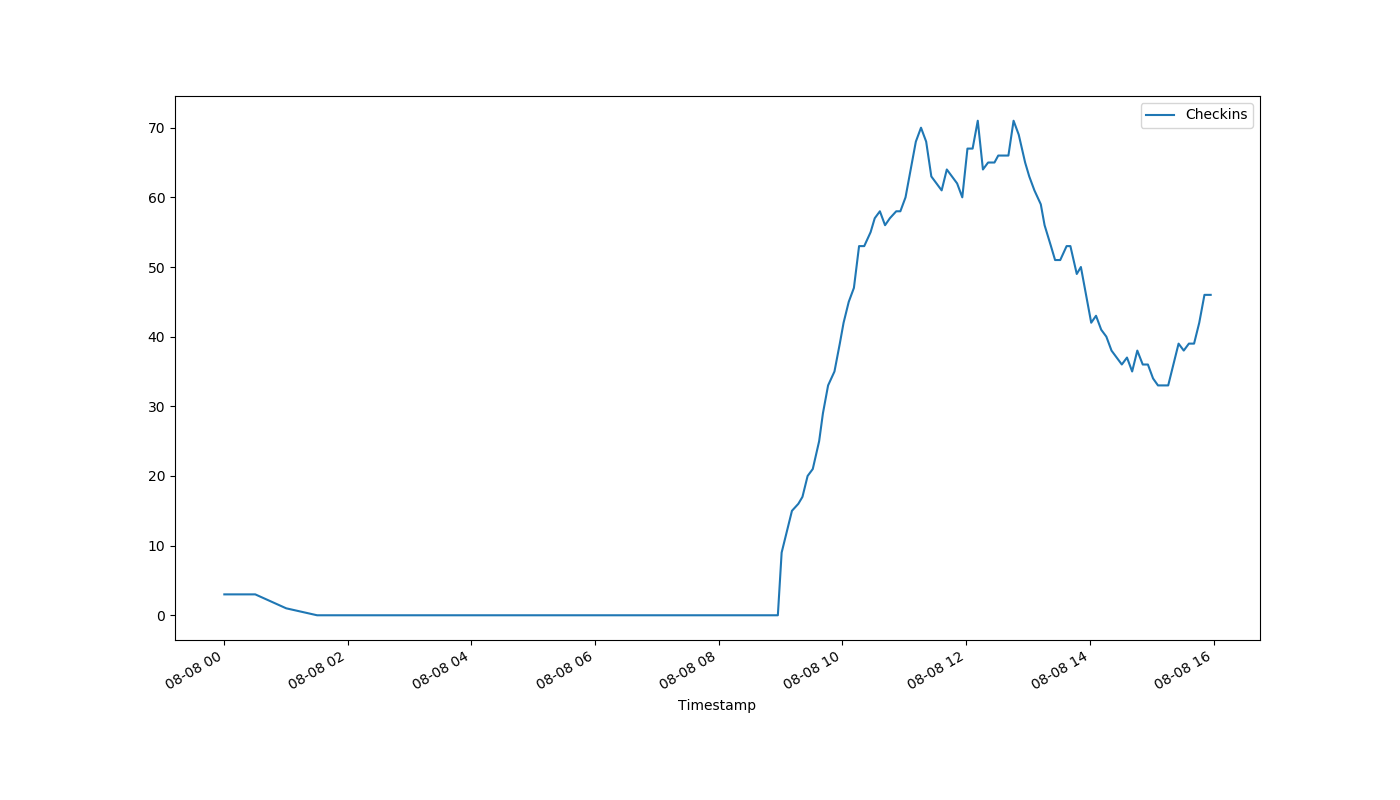
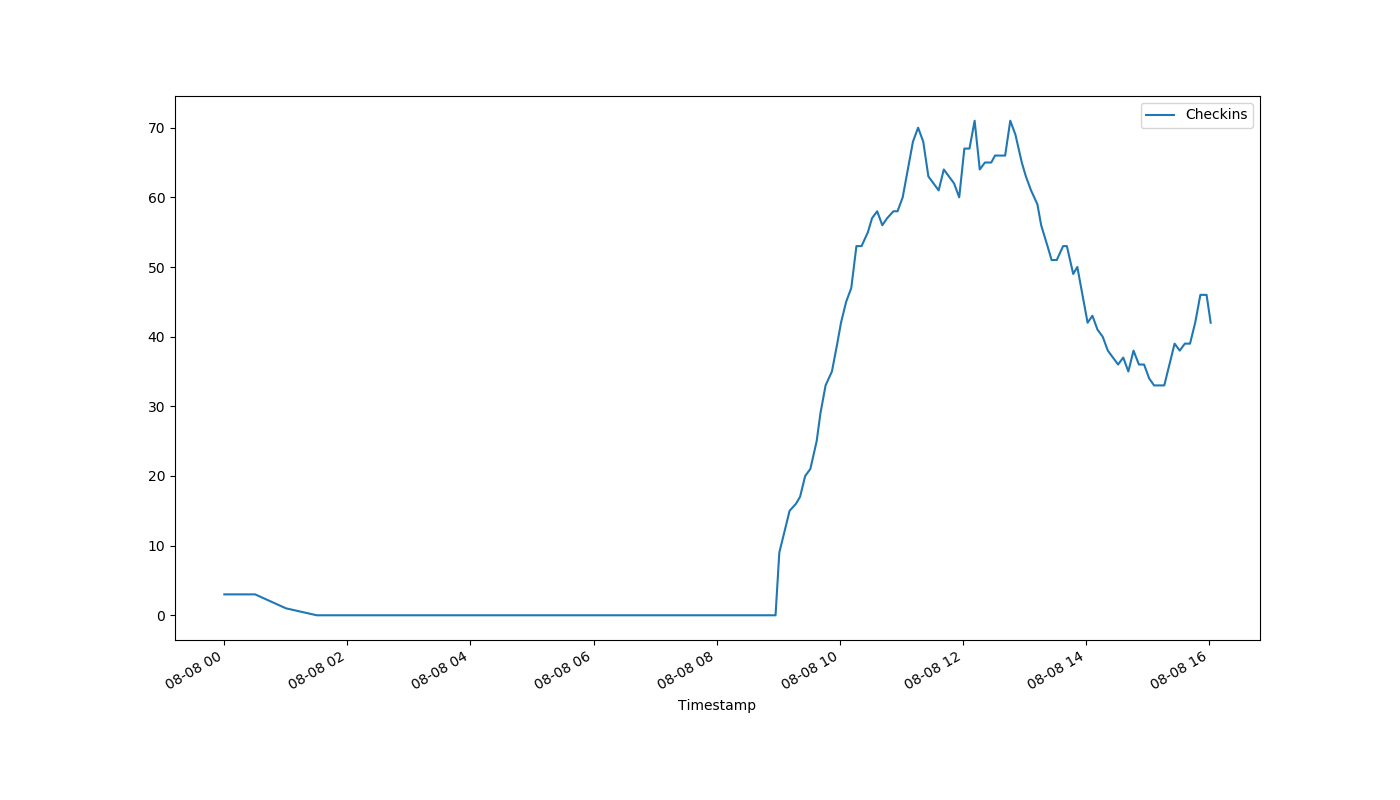
auto-Aug-08-16:03:56

diff --git a/index.html b/index.html
@@ -1,1 +1,1 @@
-<!DOCTYPE html><html><head><meta http-equiv="refresh" content="30"><link rel='stylesheet' href='holmcurrent.css'></head><body><p id='count'>46</p><div id='graph-wrap'><img id='graph' src='holmgraph-Aug-08.png'></div><p id='updated'>Last updated 15:57:19 / 15:57:13</p></body></html>
+<!DOCTYPE html><html><head><meta http-equiv="refresh" content="30"><link rel='stylesheet' href='holmcurrent.css'></head><body><p id='count'>42</p><div id='graph-wrap'><img id='graph' src='holmgraph-Aug-08.png'></div><p id='updated'>Last updated 16:02:00 / 16:01:13</p></body></html>
